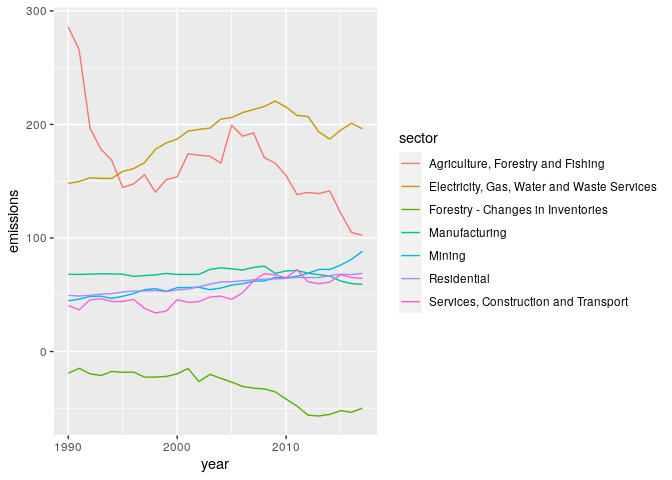
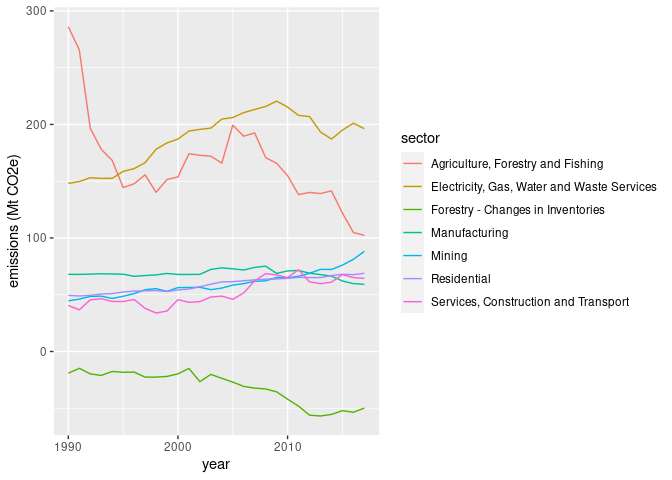
fix URL; update to 2019 data; typo; shorter inline code

diff --git a/R/reports/reports.md b/R/reports/reports.md
@@ -1,7 +1,7 @@
 R reproducible reports with R Markdown and knitr
 ================
 Stéphane Guillou
-2021-12-22
+2022-05-13
 
 ## Setting up
 
@@ -91,7 +91,9 @@ importing it. For example:
 
     ## National Greenhouse Gas Inventory data
 
-    Our data comes from the NGA, and is released under a [CC-BY](https://creativecommons.org/licenses/by/4.0/) licence. The latest release can be found on [this page](https://publications.industry.gov.au/publications/climate-change/climate-change/climate-science-data/greenhouse-gas-measurement/publications.html)
+    Our data comes from the NGA, and is released under a [CC-BY](https://creativecommons.org/licenses/by/4.0/) licence. The latest release can be found on [this page](https://www.industry.gov.au/data-and-publications/national-inventory-reports)
+
+    The values are reported in Mt CO<sub>2</sub>-e.
 
 Notice how we used a `[text](link)` syntax to add a link to a website?
 
@@ -144,7 +146,7 @@ ghg
 ```
 
     ## # A tibble: 28 × 8
-    ##     year `Agriculture, F… `Forestry - Cha… Mining Manufacturing `Electricity, G…
+    ##     year `Agriculture, …` `Forestry - Ch…` Mining Manufacturing `Electricity, …`
     ##    <dbl>            <dbl>            <dbl>  <dbl>         <dbl>            <dbl>
     ##  1  1990             286.            -19.1   44.6          68.0             148.
     ##  2  1991             266.            -14.8   46.1          67.9             150.
@@ -157,7 +159,7 @@ ghg
     ##  9  1998             140.            -22.5   55.4          67.5             178.
     ## 10  1999             151.            -22.0   53.0          68.8             184.
     ## # … with 18 more rows, and 2 more variables:
-    ## #   Services, Construction and Transport <dbl>, Residential <dbl>
+    ## #   `Services, Construction and Transport` <dbl>, Residential <dbl>
 
 ### Working directory
 
@@ -247,9 +249,9 @@ We can also **include code that will be executed *inside* Markdown
 text**. For example, you can write the following sentence:
 
 > The dataset contains GHG emissions for the period
-> `` `r min(ghg_tidy$year)` `` to `` `r max(ghg_tidy$year)` ``. The
-> maximum GHG emissions recorded for the mining sector is
-> `` `r max(ghg_tidy[ghg_tidy$sector == "Mining",]$emissions)` ``.
+> `` `r min(ghg$year)` `` to `` `r max(ghg$year)` ``. The maximum GHG
+> emissions recorded for the mining sector is
+> `` `r round(max(ghg$Mining), 2)` ``.
 
 We can also use this feature to **auto-update the date** of your report
 every time it is knitted. Replace the `date` line in the YAML header
@@ -265,7 +267,8 @@ We can also include a visualisation using, for example, ggplot2:
 
 ``` r
 ggplot(ghg_tidy, aes(x = year, y = emissions, colour = sector)) +
-    geom_line()
+  geom_line() +
+  ylab("emissions (Mt CO2e)")
 ```
 
 ![](reports_files/figure-gfm/viz-1.png)<!-- -->
@@ -278,7 +281,8 @@ Finally, let’s create an interactive version of our plot:
 ``` r
 library(plotly)
 p <- ggplot(ghg_tidy, aes(x = year, y = emissions, colour = sector)) +
-    geom_line()
+  geom_line() +
+  ylab("emissions (Mt CO2e)")
 ggplotly(p)
 ```
 
@@ -297,16 +301,16 @@ the top of the document). For example:
 
 We have an updated version of the dataset. The only thing we need to do
 to update the whole report is point the data import code to the new
-file, at the top of our document, changing the year to “2018”:
+file, at the top of our document, changing the year to “2019”:
 
 ``` r
-ghg <- read_csv("https://raw.githubusercontent.com/uqlibrary/technology-training/master/R/reports/aus_ghg_2018.csv")
+ghg <- read_csv("https://raw.githubusercontent.com/uqlibrary/technology-training/master/R/reports/aus_ghg_2019.csv")
 ```
 
 Knitting again will update all the objects and visualisations for us!
 This is the power of reproducible reports in R.
 
-With reporducible reports, you can potentially structure and write (most
+With reproducible reports, you can potentially structure and write (most
 of) a report even before you have your research project’s final dataset.
 (Well, at least the data analysis part, maybe not so much the
 conclusions!)
